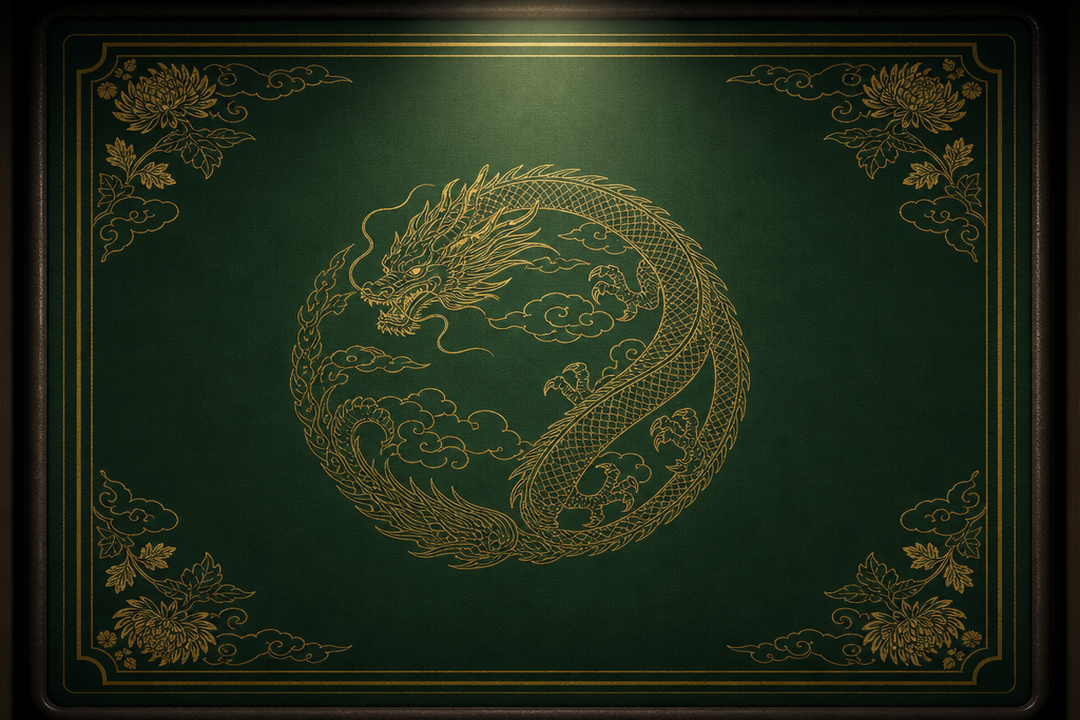
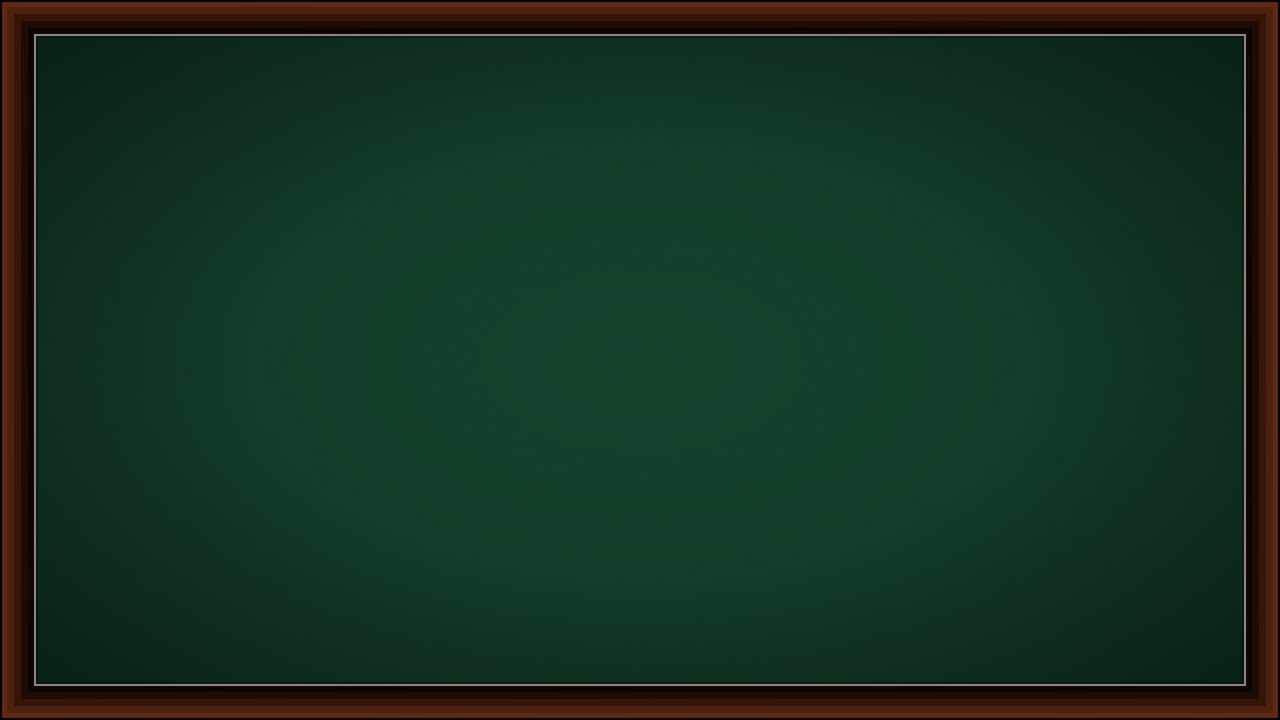
feat(ux): 整桌舞台重做（毡桌+暗角+立牌+中心盘）
- bake_table_felt 输出 1280×720 加厚木框深绿毡
- TableStage：毡/中心光晕/四角暗角/内场金线
- 对家手牌立背侧视 + 投影；自家手牌加大
- 中心盘金边阴影；顶栏玻璃条
- 牌面暂可继续用现有图（用户允许后续整换）

diff --git a/godot/tools/asset_gen/bake_table_felt.py b/godot/tools/asset_gen/bake_table_felt.py
@@ -1,9 +1,8 @@
 #!/usr/bin/env python3
-"""烘焙麻将桌面:毛毡纹理 + 木质边框(T3,spec 2026-06-11 G3)。
+"""烘焙麻将桌面:毛毡纹理 + 木质边框(雀魂式满桌舞台)。
 
-对标参考作的 .table-felt(#1f5132 + feTurbulence 噪声)与 .table-rail
-(木纹渐变 + 暖白高光线)。输出单张 1080×720 PNG,FourPlayerTable 的
-TableFelt TextureRect 直接整图贴,无需布局代码改动。
+对标 .table-felt + .table-rail(木纹 + 暖白高光)。
+输出 1280×720 PNG,与 TableLayout.TABLE_W/H 一致。
 
 用法:
     python3 godot/tools/asset_gen/bake_table_felt.py
@@ -12,14 +11,14 @@ TableFelt TextureRect 直接整图贴,无需布局代码改动。
 import random
 from PIL import Image, ImageDraw, ImageFilter, ImageEnhance
 
-W, H = 1080, 720
-FRAME = 26          # 木框宽
-# 参考作 #1f5132 压暗 ~20%(我们无 3D 暗场,Akagi 氛围靠基色自己扛)
-FELT = (24, 64, 40)
+W, H = 1280, 720
+FRAME = 36          # 木框加宽,满桌更有「台」的重量
+# 深绿毡 + 略冷,对标雀魂/麻将馆
+FELT = (18, 58, 38)
 OUT = "godot/assets/table_felt.png"
 
-# 木纹色带(外→内):深红褐 → 焦黑
-WOOD = [(78, 29, 17), (62, 23, 9), (42, 14, 7), (14, 4, 2)]
+# 木纹色带(外→内):暖褐 → 焦黑
+WOOD = [(96, 42, 22), (78, 32, 14), (54, 20, 8), (28, 10, 4), (10, 4, 2)]
 
 
 def _noise_layer(w: int, h: int, sigma: int, scale: int) -> Image.Image:
